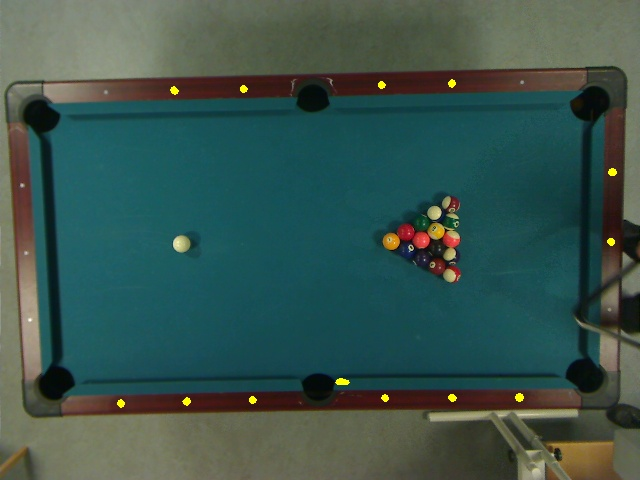
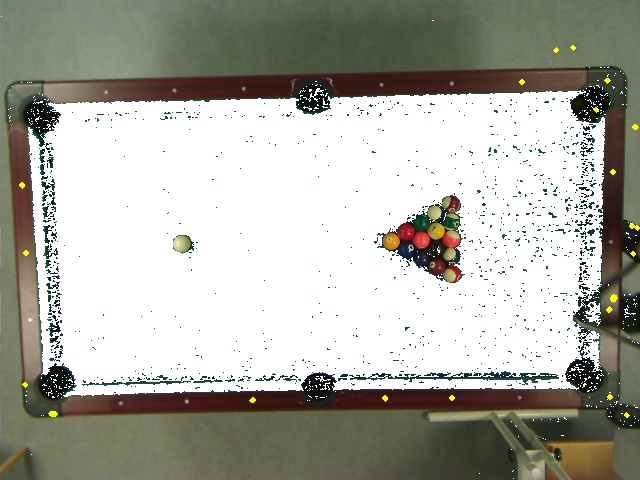
fdg

diff --git a/code/Calib/Form1.cs b/code/Calib/Form1.cs
@@ -53,11 +53,12 @@ namespace Calib
 
                 imageStruct.org_img = new Image<Bgr, Byte>(fi.FullName);
                 imageStruct.org_img = imageStruct.org_img.Resize(0.5, INTER.CV_INTER_NN);
+                imageStruct.org_img = removebackground(imageStruct.org_img);
 
                 imageStruct.threshold_diamond = imageStruct.org_img.Convert<Gray, Byte>();  //Convert to Gray for thresholding
 
                 CvInvoke.cvAdaptiveThreshold(imageStruct.threshold_diamond.Ptr, imageStruct.threshold_diamond.Ptr, //Adptive threshold
-                        255, Emgu.CV.CvEnum.ADAPTIVE_THRESHOLD_TYPE.CV_ADAPTIVE_THRESH_MEAN_C, Emgu.CV.CvEnum.THRESH.CV_THRESH_BINARY, 151, 10);
+                        255, Emgu.CV.CvEnum.ADAPTIVE_THRESHOLD_TYPE.CV_ADAPTIVE_THRESH_MEAN_C, Emgu.CV.CvEnum.THRESH.CV_THRESH_BINARY, 201, 10);
 
                 imageStruct.threshold_diamond = imageStruct.threshold_diamond.Dilate(1);    //Dialate
                 imageStruct.threshold_diamond = imageStruct.threshold_diamond.Erode(1);     //Erode
@@ -68,7 +69,7 @@ namespace Calib
 
                 foreach (Contour<Point> contour in imageStruct.contourpoint)    //Draw contours
                 {
-                    if (Math.Abs(contour.Area - medianArea) < 3)
+                    if (Math.Abs(contour.Area - medianArea) < 5)
                     {
                         Debug.Write("\n"+contour.Area+"\n");
                         imageStruct.org_img.Draw(contour, new Bgr(0, 255, 255), 3);
